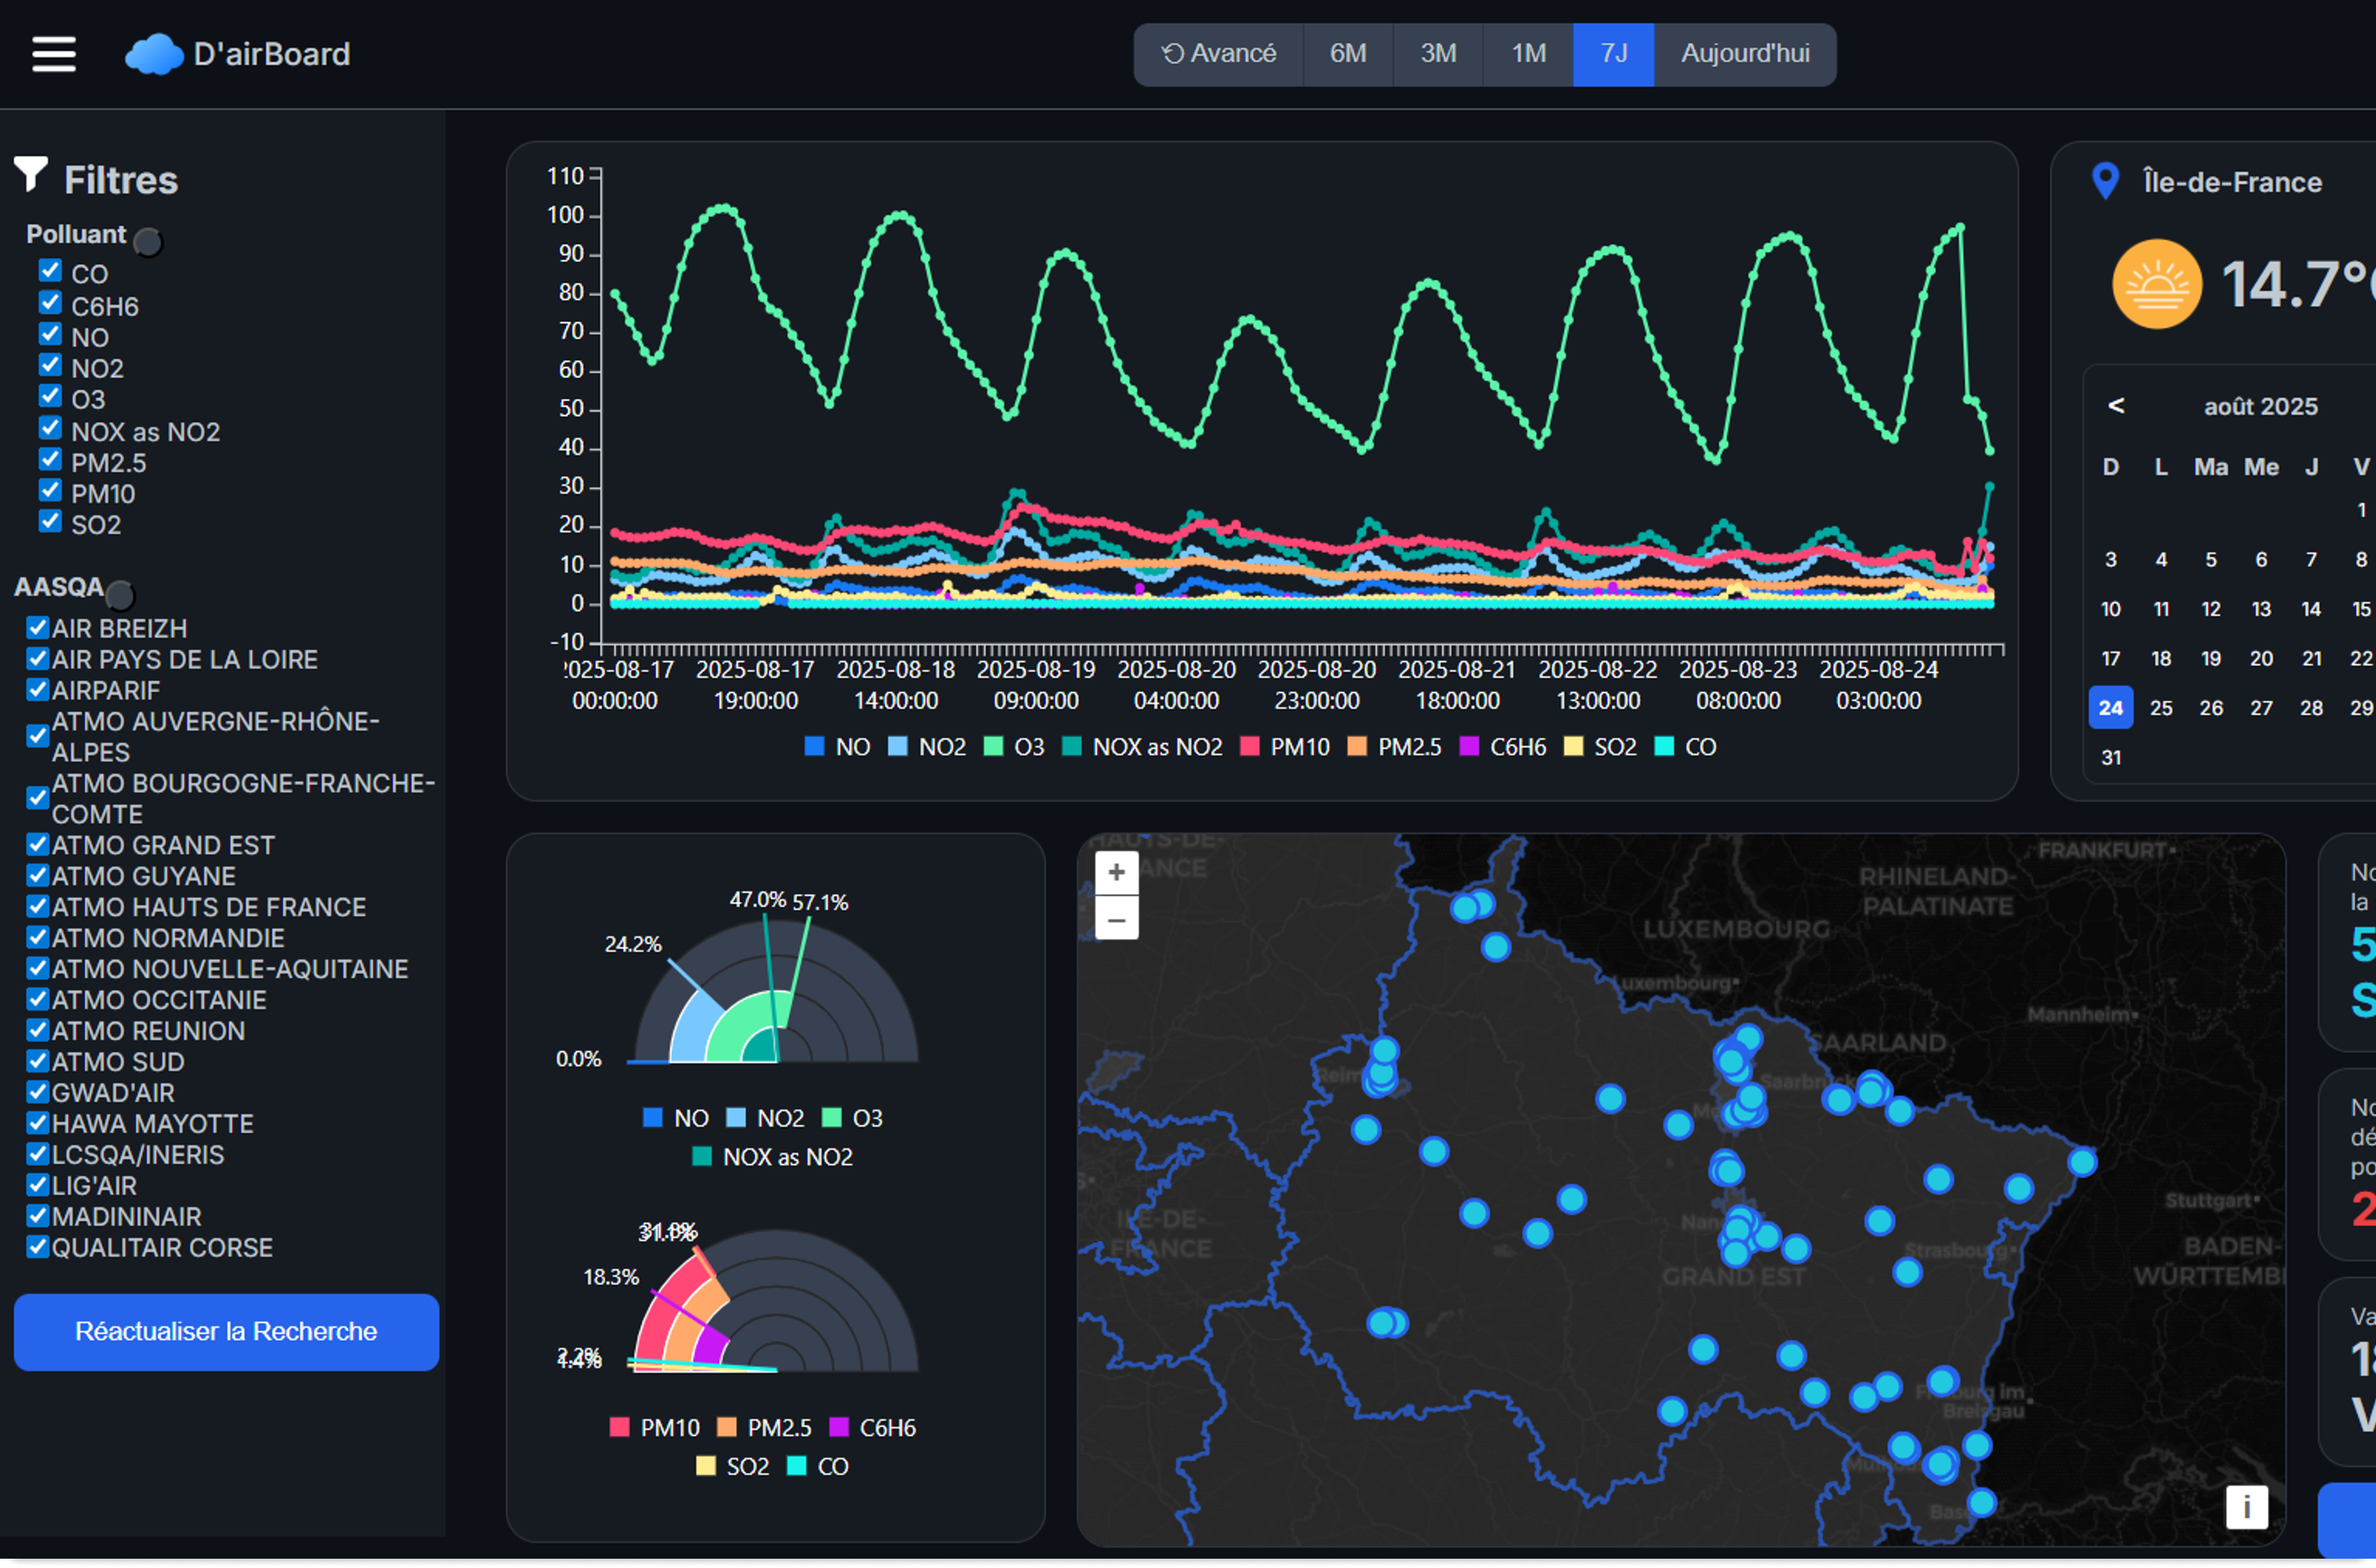
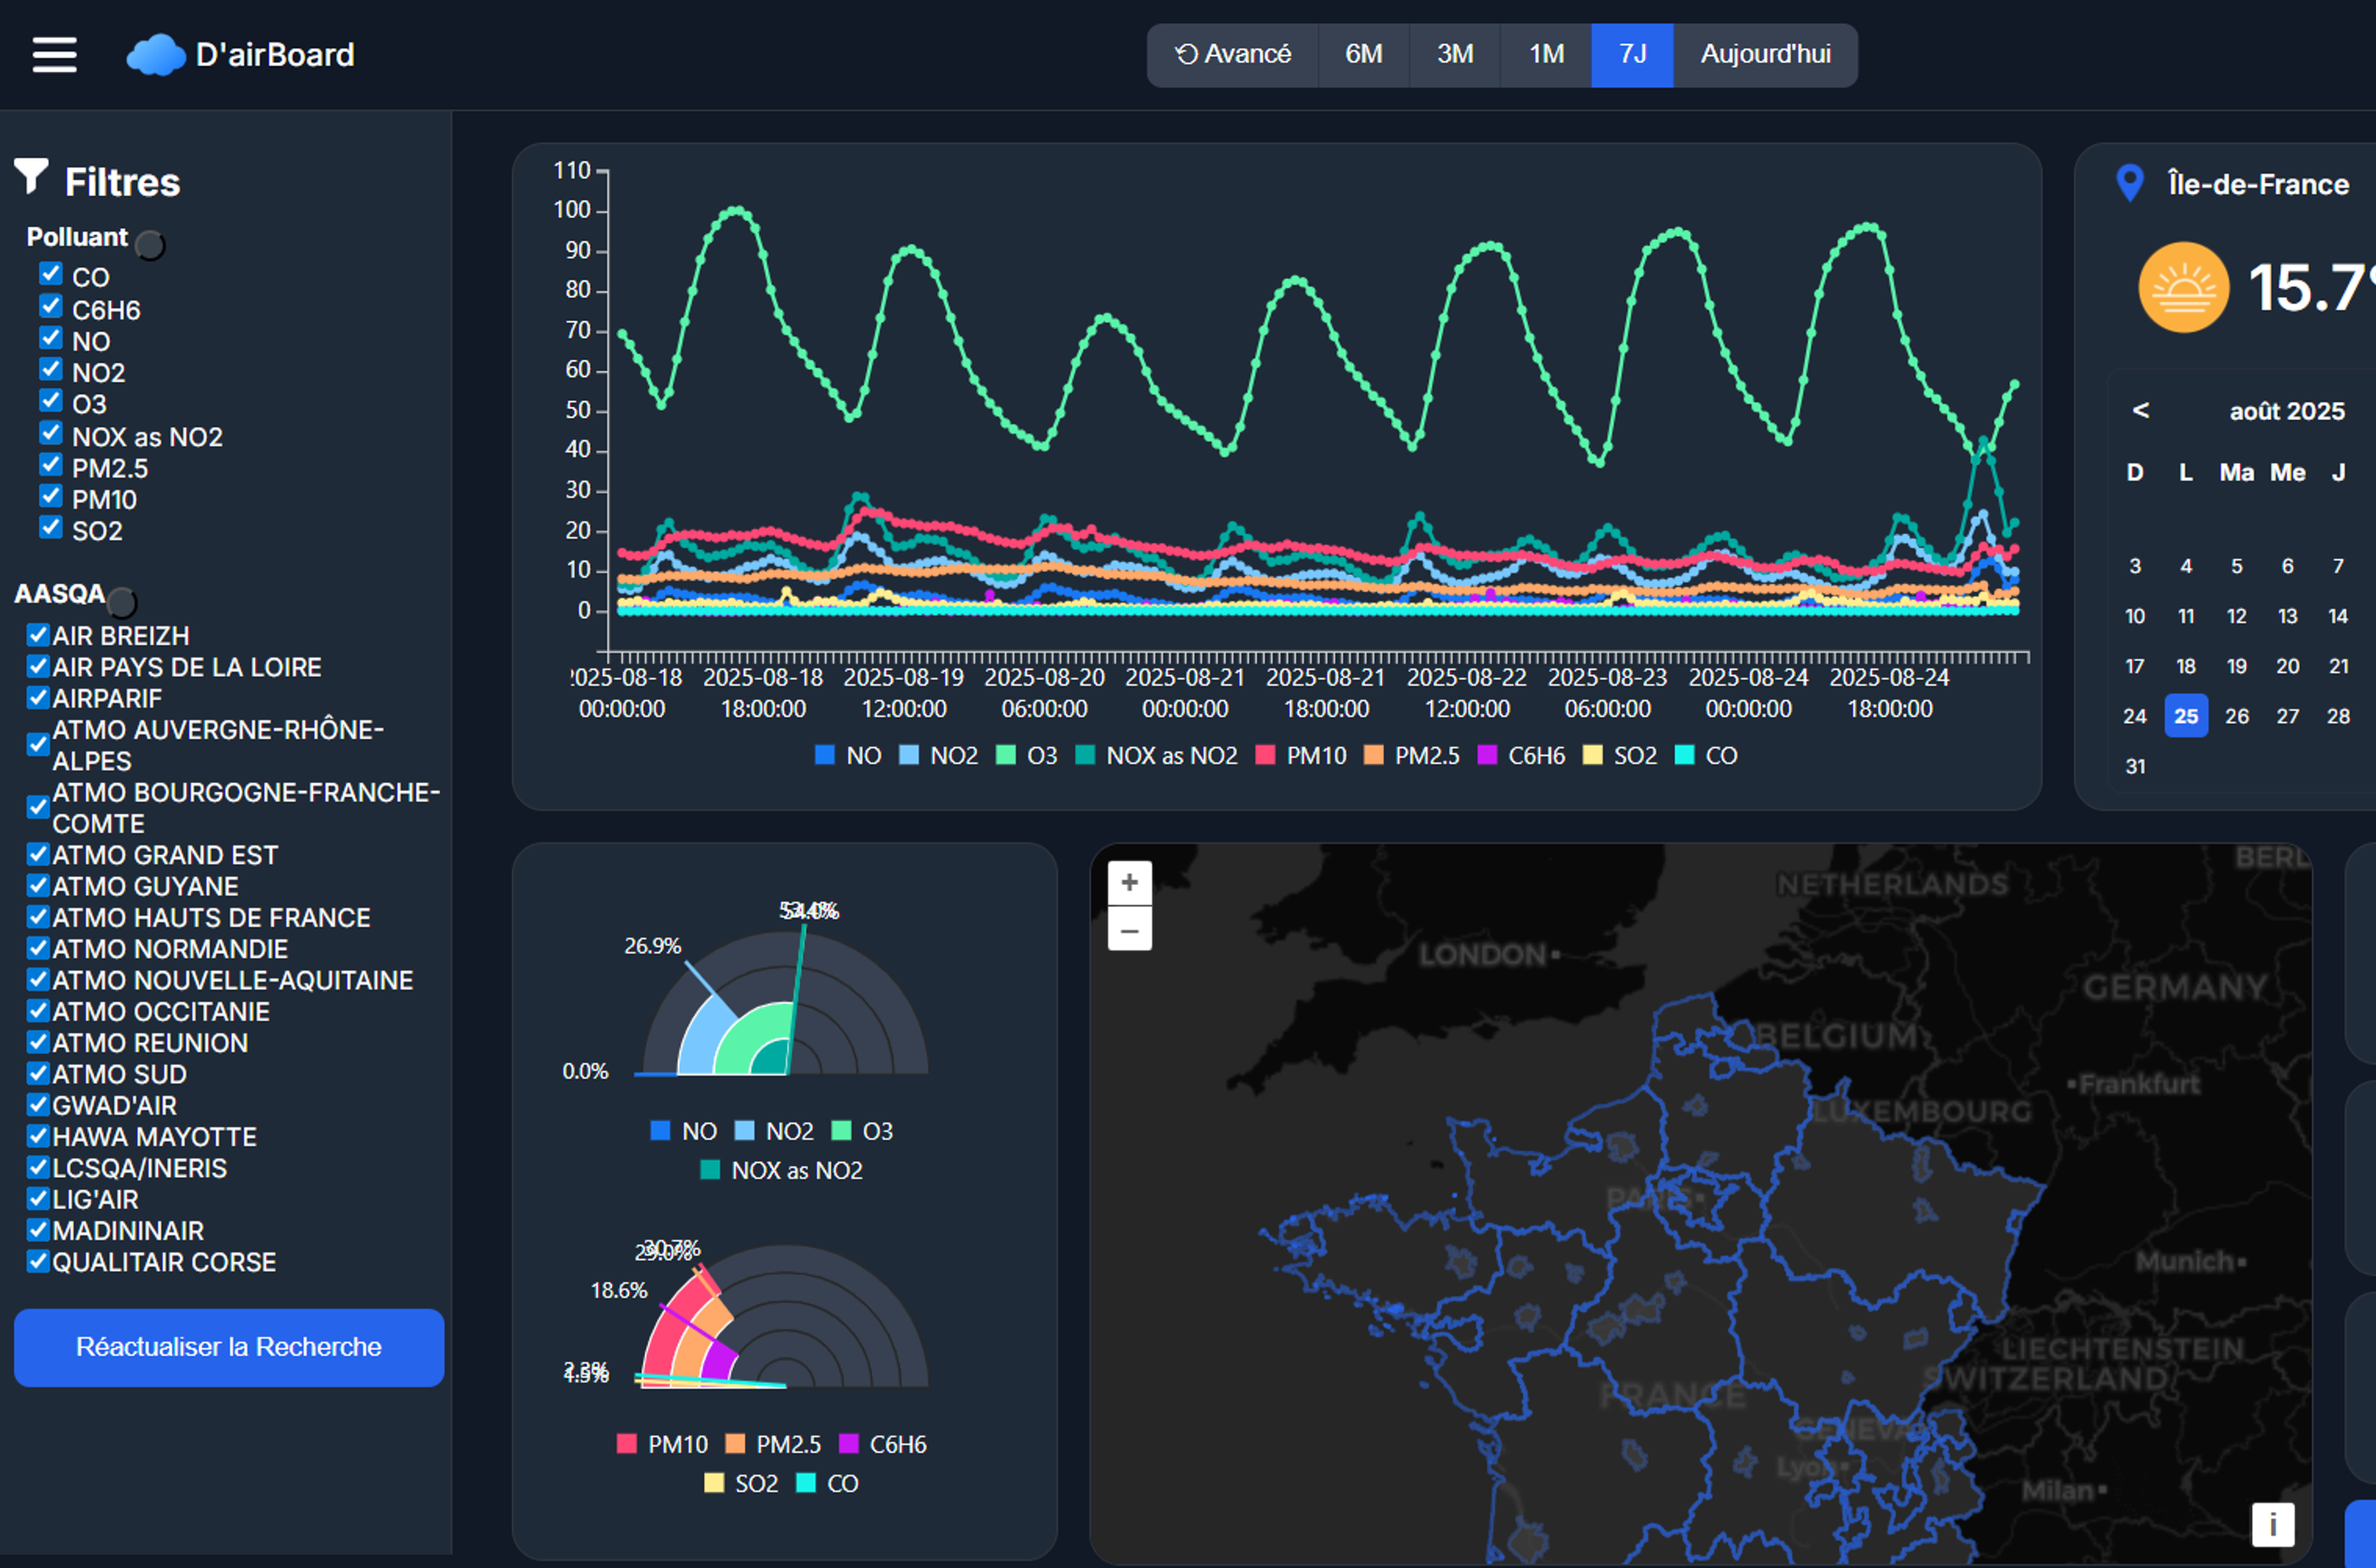
modification image dashboard

Changed region(s): [[0.0, 0.0, 1.0, 1.0], [0.0621, 0.0308, 0.1551, 0.0616], [0.0, 0.0308, 0.031, 0.0616]]

diff --git a/app/(projects)/DetailProject/DashBoard.tsx b/app/(projects)/DetailProject/DashBoard.tsx
@@ -122,6 +122,12 @@ const Dashboard = () => {
           système.
         </p>
         <img
+          src="/image/Dashboard/light_dashboard.png"
+          width="100%"
+          style={{ borderRadius: 8, margin: 8 }}
+          alt="Dashboard Presentation"
+        />
+        <img
           src="/image/Dashboard/dark_dashboard.png"
           width="100%"
           style={{ borderRadius: 8, margin: 8 }}
